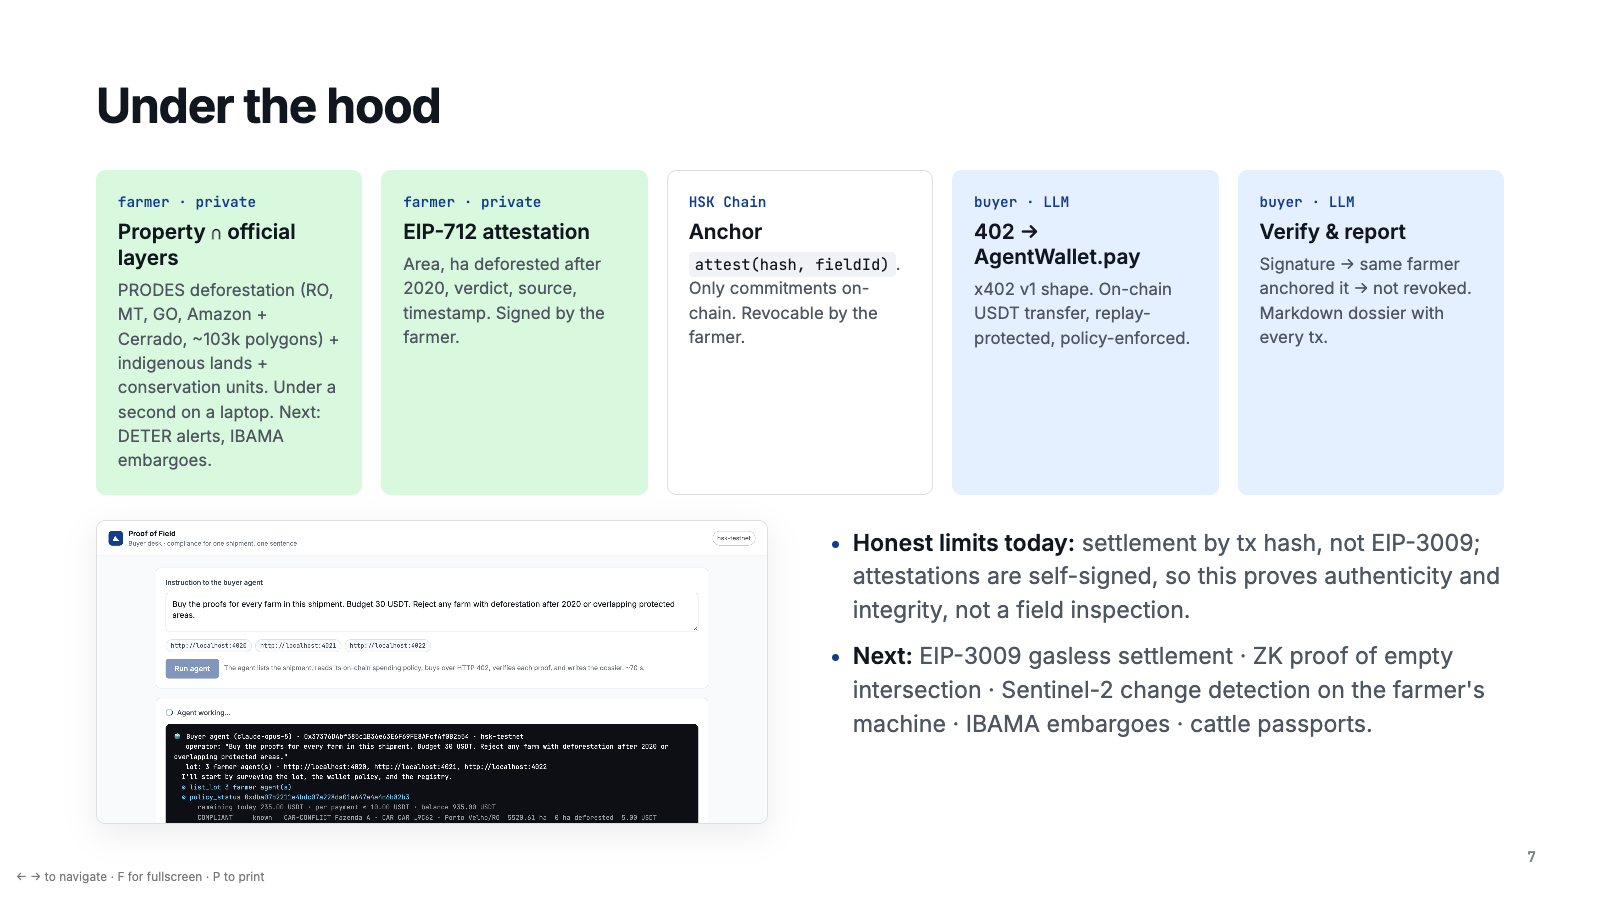
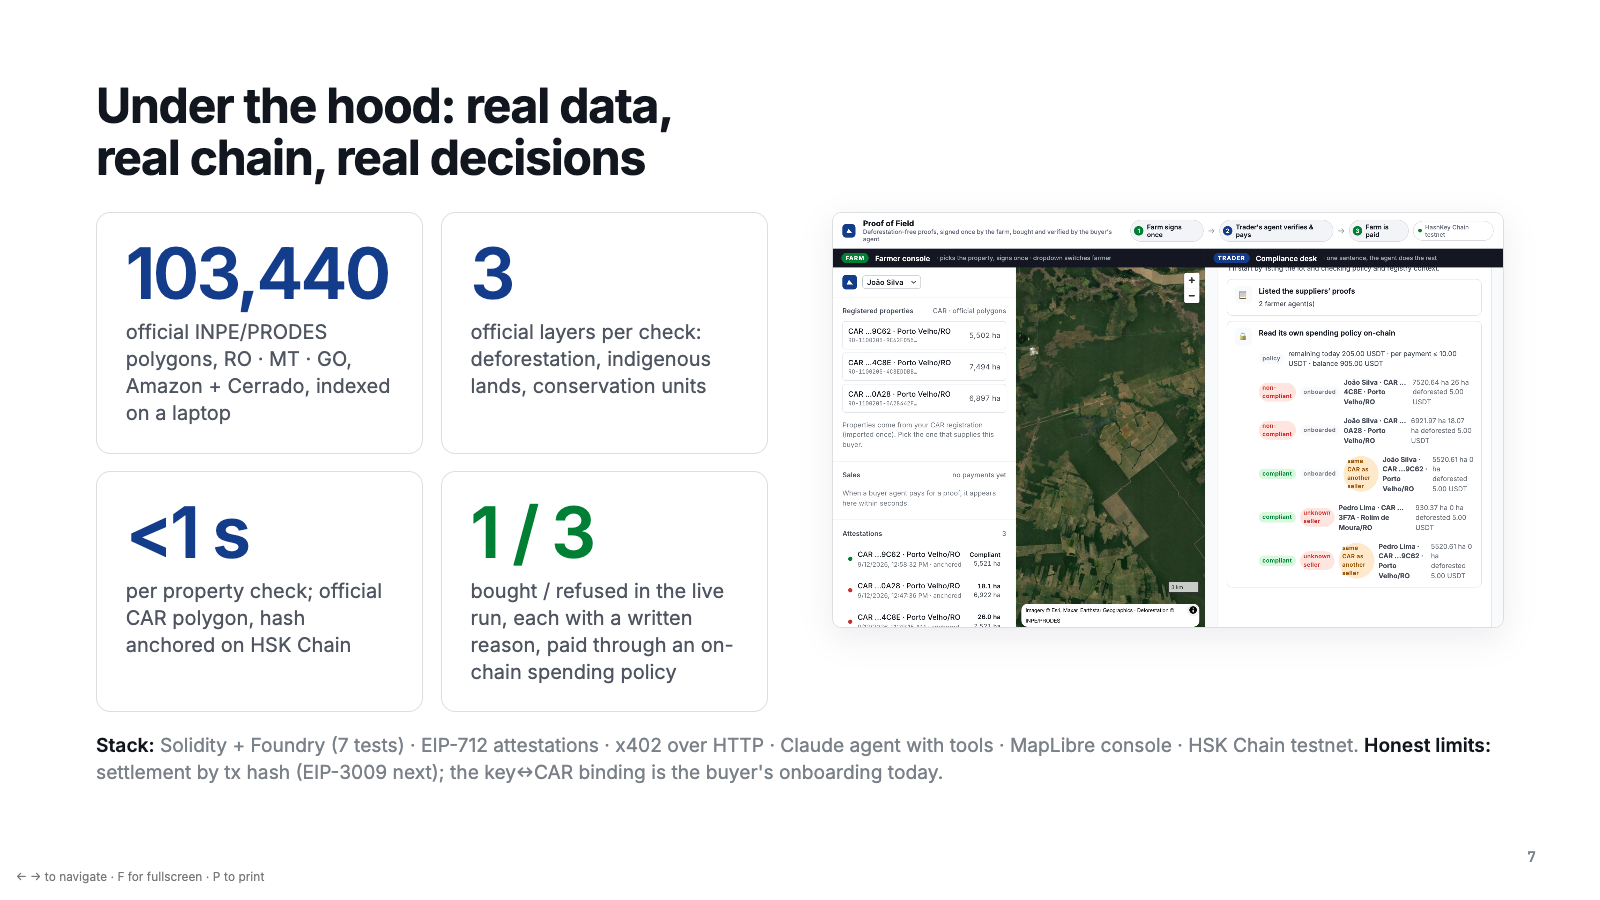
Deck: numbers, comparison bars, pain tiles, under-the-hood KPIs

diff --git a/docs/slides/index.html b/docs/slides/index.html
@@ -53,6 +53,22 @@
   .stat div { border-top: 2px solid var(--line); padding-top: 1vw; }
   .stat b { display: block; font-size: 2.8vw; letter-spacing: -0.03em; } .stat.bad b { color: var(--bad); } .stat.ok b { color: var(--ok); }
   .stat span { font-size: 1.3vw; color: var(--ink-3); }
+  .kpis { display: grid; grid-template-columns: repeat(3, 1fr); gap: 1.6vw; margin-top: 1.6vw; }
+  .kpi { border: 1px solid var(--line); border-radius: 0.9vw; padding: 1.6vw 1.8vw; }
+  .kpi b { display: block; font-size: 4.4vw; letter-spacing: -0.04em; line-height: 1; color: var(--primary); }
+  .kpi.bad b { color: var(--bad); } .kpi.ok b { color: var(--ok); }
+  .kpi span { display: block; margin-top: 0.6vw; font-size: 1.25vw; color: var(--ink-2); line-height: 1.35; }
+  .bars { display: grid; grid-template-columns: 17vw 1fr 9vw; gap: 1.1vw 1.6vw; align-items: center; margin-top: 1.4vw; }
+  .bars .lbl { font-weight: 600; font-size: 1.3vw; }
+  .bars .track { display: flex; flex-direction: column; gap: 0.45vw; }
+  .bar { height: 2.1vw; border-radius: 0.4vw; display: flex; align-items: center; padding: 0 0.9vw; font-size: 1.05vw; font-weight: 600; color: #fff; white-space: nowrap; min-width: 6vw; }
+  .bar.bad { background: var(--bad); } .bar.ok { background: var(--ok); }
+  .bars .delta { font-size: 1.9vw; font-weight: 700; letter-spacing: -0.03em; color: var(--ok); text-align: right; }
+  .bars .delta small { display: block; font-size: 0.95vw; font-weight: 500; color: var(--ink-3); letter-spacing: 0; }
+  .pains { display: grid; grid-template-columns: repeat(4, 1fr); gap: 1.4vw; margin-top: 1.4vw; }
+  .pain { background: var(--bad-soft); border-radius: 0.8vw; padding: 1.4vw 1.5vw; }
+  .pain b { display: block; font-size: 2.8vw; letter-spacing: -0.04em; color: var(--bad); line-height: 1; }
+  .pain span { display: block; margin-top: 0.5vw; font-size: 1.15vw; color: var(--ink-2); line-height: 1.35; }
   /* comparison */
   .cmp { display: grid; grid-template-columns: 15vw 1fr 1fr; gap: 0.6vw 1vw; margin-top: 0.4vw; }
   .cmp-h { font-weight: 700; font-size: 1.35vw; padding: 0.4vw 1vw; }
@@ -95,50 +111,57 @@
 
 <!-- 2 -->
 <section class="slide">
-  <h2>Six companies move most of Brazil's soy and beef. Each one clears thousands of farms per season.</h2>
+  <h2>Six companies move most of Brazil's soy and beef.<br/>Every market now wants the same proof, per farm.</h2>
   <div class="logos">
     <img src="logos/cargill.png" alt="Cargill" /><img src="logos/bunge.png" alt="Bunge" /><img src="logos/adm.png" alt="ADM" /><img src="logos/cofco.png" alt="COFCO" /><img src="logos/ldc.png" alt="Louis Dreyfus Company" /><img src="logos/amaggi.png" alt="Amaggi" />
   </div>
-  <div class="markets">
-    <div class="mkt"><i>how a trader works</i><b>Originate → aggregate → export</b><p>Buys from thousands of farms, blends into lots at silos and ports, sells to importers worldwide. Margins are thin; volume is everything.</p></div>
-    <div class="mkt"><i>what every market now asks</i><b>Proof per farm, not per lot</b><p>EU by law (EUDR: importer liable, fines up to 4% of turnover). Banks for credit. China, the largest buyer, moving to the same 2020 baseline.</p></div>
-    <div class="mkt"><i>the bottleneck</i><b>Compliance is done by hand</b><p>Teams e-mail suppliers, pay due-diligence vendors per farm, assemble PDFs. Every buyer asks again. The check is cheap; the coordination isn't.</p></div>
+  <div class="kpis">
+    <div class="kpi"><b>1,000s</b><span>of farms cleared by each trader, every season, before contracting</span></div>
+    <div class="kpi"><b>3</b><span>markets asking the same question: EU by law (EUDR), banks for credit, China as the #1 buyer</span></div>
+    <div class="kpi bad"><b>by hand</b><span>e-mails, PDFs and a paid vendor per farm. The check is cheap; the coordination isn't.</span></div>
   </div>
   <span class="n">2</span>
 </section>
 
 <!-- 3 -->
 <section class="slide">
-  <h2>How a trade clears today</h2>
-  <div class="tl">
-    <div class="lbl bad">Today</div>
-    <div class="chain">
-      <div class="node bad"><i>day 0</i><b>Trader asks</b><p>Compliance team e-mails each supplier for CAR, maps and documents.</p></div>
-      <div class="node bad"><i>day 1–5</i><b>Farmer sends everything</b><p>Full farm polygon, registry, deeds. To a stranger. Again for the next buyer.</p></div>
-      <div class="node bad"><i>day 5–20</i><b>Due-diligence vendor</b><p>Trader pays a provider per farm to cross-check against PRODES, embargoes, CAR.</p></div>
-      <div class="node bad"><i>day 20+</i><b>PDF report</b><p>A document nobody outside can verify. Bank asks again. Importer asks again.</p></div>
-    </div>
+  <h2>Today: three weeks, per buyer, per season.</h2>
+  <div class="chain" style="margin-top:0.4vw">
+    <div class="node bad" style="min-height:11vw"><i>day 0</i><b>Trader asks</b><p>Compliance e-mails each supplier for CAR, maps, documents.</p></div>
+    <div class="node bad" style="min-height:11vw"><i>day 1–5</i><b>Farm sends everything</b><p>The entire map, to a stranger. Again for the next buyer.</p></div>
+    <div class="node bad" style="min-height:11vw"><i>day 5–20</i><b>Paid vendor checks</b><p>Crosses the map with government data. Charges per farm.</p></div>
+    <div class="node bad" style="min-height:11vw"><i>day 20+</i><b>A PDF</b><p>Nobody outside can verify it. Bank asks again. Importer asks again.</p></div>
   </div>
-  <div class="stat bad">
-    <div><b>weeks</b><span>per lot, blocking the sale</span></div>
-    <div><b>R$ per farm, per buyer</b><span>paid by the trader, farmer gets nothing</span></div>
-    <div><b>copies everywhere</b><span>of the farmer's most sensitive data</span></div>
+  <div class="pains">
+    <div class="pain"><b>3 wk</b><span>to clear one supplier</span></div>
+    <div class="pain"><b>×N</b><span>repeated for every buyer, every season</span></div>
+    <div class="pain"><b>100%</b><span>of the farm map handed to strangers</span></div>
+    <div class="pain"><b>0</b><span>ways for anyone outside to verify the result</span></div>
   </div>
-  <p class="note">The check itself is cheap. The coordination around it is what costs weeks.</p>
   <span class="n">3</span>
 </section>
 
 <!-- 4 -->
 <section class="slide">
-  <h2>Where the middleman's work goes</h2>
-  <div class="cmp">
-    <div class="cmp-h"></div><div class="cmp-h bad">Today · a paid checker in the middle</div><div class="cmp-h ok">With Proof of Field</div>
-    <div class="cmp-l">Collecting the farm's papers</div><div class="cmp-c bad">E-mails, WhatsApp, PDFs. The farm sends its entire map to a stranger.</div><div class="cmp-c ok">The buyer's agent fetches the proof by itself. The map never leaves the farm.</div>
-    <div class="cmp-l">Running the check</div><div class="cmp-c bad">A vendor crosses the farm map with government data and charges per farm.</div><div class="cmp-c ok">Open-source software on the farm's side crosses the <b>official</b> map with the <b>same public</b> government data, in seconds.</div>
-    <div class="cmp-l">Trusting the result</div><div class="cmp-c bad">You trust the vendor's PDF. Nobody outside can check it.</div><div class="cmp-c ok">Nobody has to be trusted. The inputs are public and the stamp is on a public registry: <b>anyone can recompute and verify it</b>.</div>
-    <div class="cmp-l">Doing it again for the next buyer</div><div class="cmp-c bad">Every buyer, bank and importer asks again. Every season. Paid every time.</div><div class="cmp-c ok"><b>Signed once.</b> Every buyer this season picks up the same proof. The farm is paid per use, the checker is not.</div>
+  <h2>With Proof of Field: signed once, verified by anyone, in minutes.</h2>
+  <div class="bars">
+    <div class="lbl">Time to clear a supplier</div>
+    <div class="track"><div class="bar bad" style="width:100%">3 weeks · today</div><div class="bar ok" style="width:9%">2 min</div></div>
+    <div class="delta">−99%<small>time</small></div>
+
+    <div class="lbl">Checks per farm, per season</div>
+    <div class="track"><div class="bar bad" style="width:100%">one per buyer · trader, bank, importer, again next season</div><div class="bar ok" style="width:20%">1 signature</div></div>
+    <div class="delta">1×<small>instead of N×</small></div>
+
+    <div class="lbl">Copies of the farm map that leave the farm</div>
+    <div class="track"><div class="bar bad" style="width:100%">one per buyer, per vendor</div><div class="bar ok" style="width:9%">0</div></div>
+    <div class="delta">0<small>copies</small></div>
+
+    <div class="lbl">Who can verify the result</div>
+    <div class="track"><div class="bar bad" style="width:35%">nobody outside</div><div class="bar ok" style="width:100%">anyone: public data + public registry, recompute and check</div></div>
+    <div class="delta">∞<small>verifiers</small></div>
   </div>
-  <p class="note">Like a passport instead of a fresh notary letter for every trip. What remains is thin and replaceable: someone vouches that the key belongs to the farm (the co-op, a bank, the government).</p>
+  <p class="note">The middleman did four jobs: collect, check, be trusted, repeat. Agents collect. Open software checks. Anyone verifies. Done once. The farm is paid per use.</p>
   <span class="n">4</span>
 </section>
 
@@ -188,21 +211,17 @@
 
 <!-- 7 -->
 <section class="slide">
-  <h2>Under the hood</h2>
-  <div class="flow">
-    <div class="step priv"><i>farmer · private</i><b>Property ∩ official layers</b><p>PRODES deforestation (RO, MT, GO, Amazon + Cerrado, ~103k polygons) + indigenous lands + conservation units. Under a second on a laptop. Next: DETER alerts, IBAMA embargoes.</p></div>
-    <div class="step priv"><i>farmer · private</i><b>EIP-712 attestation</b><p>Area, ha deforested after 2020, verdict, source, timestamp. Signed by the farmer.</p></div>
-    <div class="step"><i>HSK Chain</i><b>Anchor</b><p><code>attest(hash, fieldId)</code>. Only commitments on-chain. Revocable by the farmer.</p></div>
-    <div class="step pay"><i>buyer · LLM</i><b>402 → AgentWallet.pay</b><p>x402 v1 shape. On-chain USDT transfer, replay-protected, policy-enforced.</p></div>
-    <div class="step pay"><i>buyer · LLM</i><b>Verify &amp; report</b><p>Signature → same farmer anchored it → not revoked. Markdown dossier with every tx.</p></div>
+  <h2>Under the hood: real data, real chain, real decisions</h2>
+  <div class="two top" style="flex:0; align-items:stretch">
+    <div class="kpis" style="grid-template-columns:1fr 1fr; margin-top:0; gap:1.1vw">
+      <div class="kpi"><b>103,440</b><span>official INPE/PRODES polygons, RO · MT · GO, Amazon + Cerrado, indexed on a laptop</span></div>
+      <div class="kpi"><b>3</b><span>official layers per check: deforestation, indigenous lands, conservation units</span></div>
+      <div class="kpi"><b>&lt;1 s</b><span>per property check; official CAR polygon, hash anchored on HSK Chain</span></div>
+      <div class="kpi ok"><b>1 / 3</b><span>bought / refused in the live run, each with a written reason, paid through an on-chain spending policy</span></div>
+    </div>
+    <img class="shot" src="17-demo-timeline-running.png" alt="Buyer agent timeline" style="max-height:26vw;object-fit:cover;object-position:right top" />
   </div>
-  <div class="two top" style="margin-top:1.6vw; flex:0">
-    <img class="shot" src="13-buyer-desk-running.png" alt="Buyer desk: one sentence, the agent works the shipment" style="max-height:19vw;object-fit:cover;object-position:top" />
-    <ul style="padding-top:0.4vw">
-      <li><b>Honest limits today:</b> settlement by tx hash, not EIP-3009; attestations are self-signed, so this proves authenticity and integrity, not a field inspection.</li>
-      <li><b>Next:</b> EIP-3009 gasless settlement · ZK proof of empty intersection · Sentinel-2 change detection on the farmer's machine · IBAMA embargoes · cattle passports.</li>
-    </ul>
-  </div>
+  <p class="note" style="margin-top:1.2vw"><b>Stack:</b> Solidity + Foundry (7 tests) · EIP-712 attestations · x402 over HTTP · Claude agent with tools · MapLibre console · HSK Chain testnet. <b>Honest limits:</b> settlement by tx hash (EIP-3009 next); the key↔CAR binding is the buyer's onboarding today.</p>
   <span class="n">7</span>
 </section>
 
